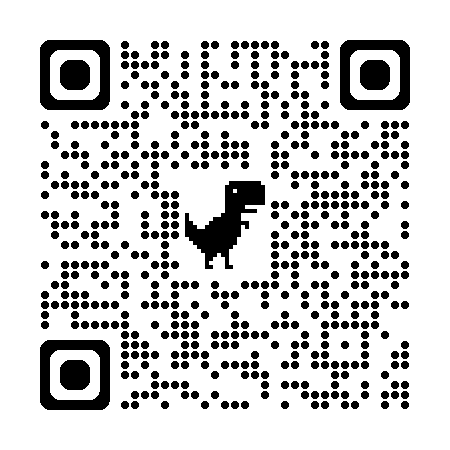
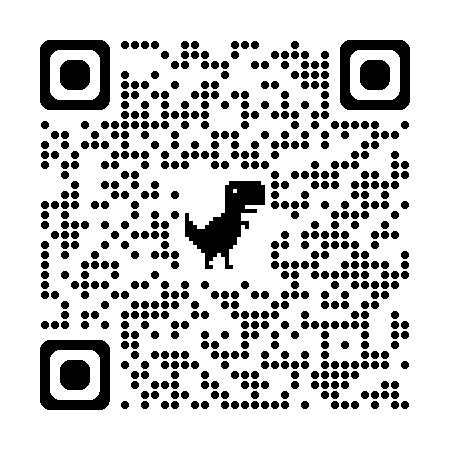
Atualização

diff --git a/README.md b/README.md
@@ -1,2 +1,4 @@
 # flex
 Aplicativo para verificar o combustível mais vantajoso para abastecer em veículos Flex
+
+![](img/lampQR.png)
